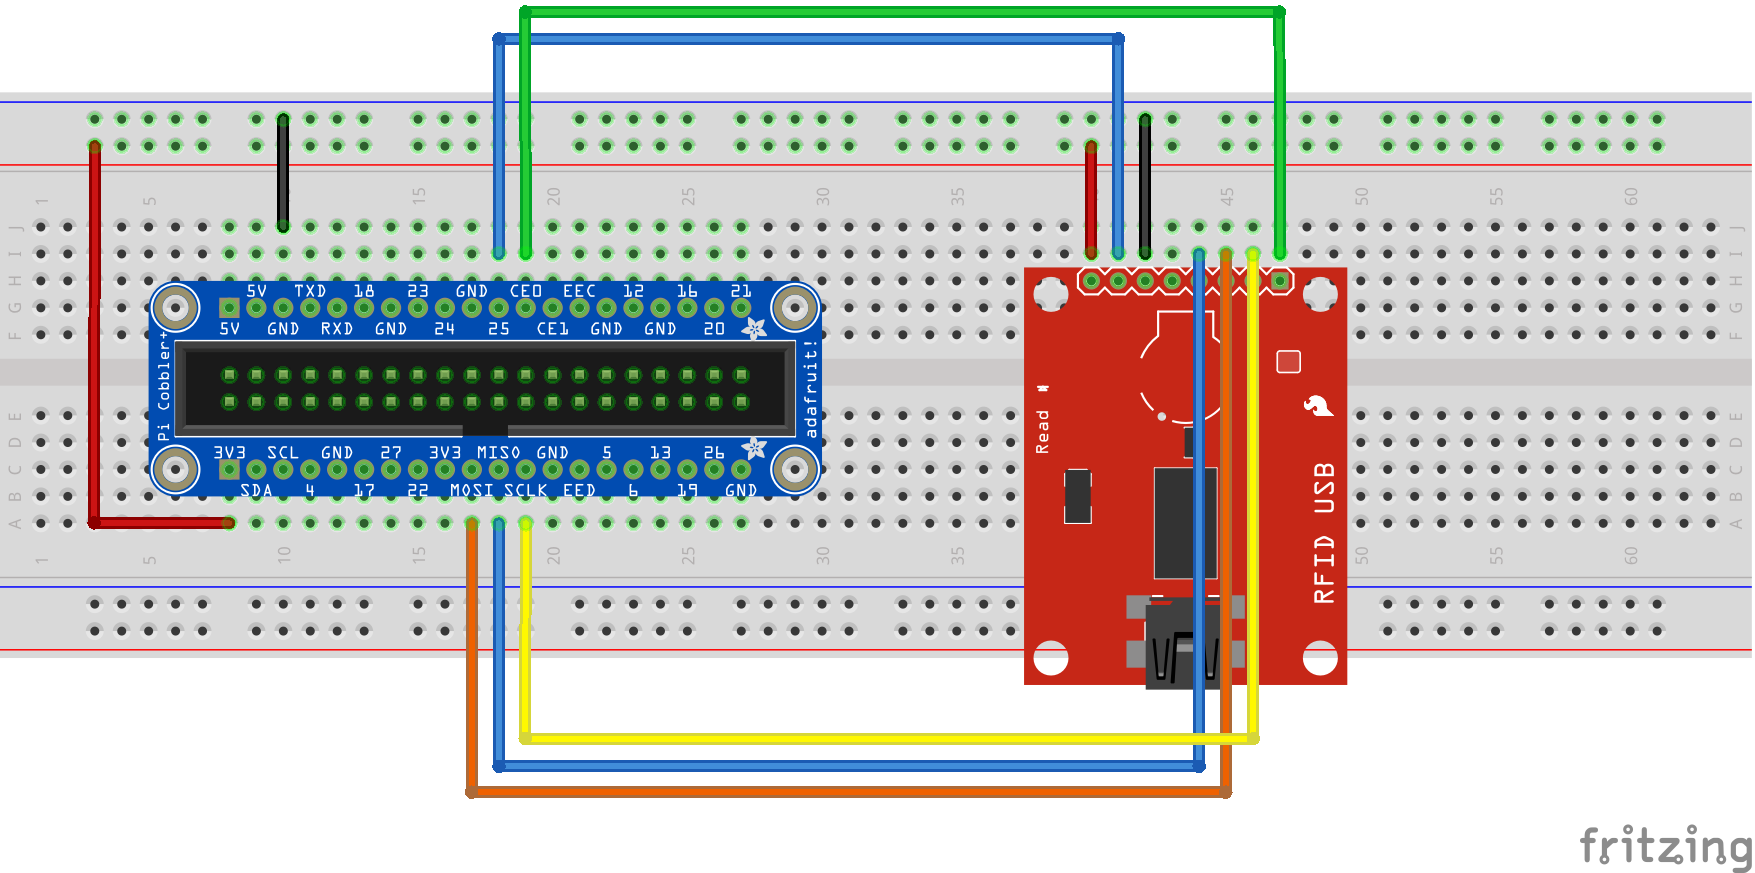
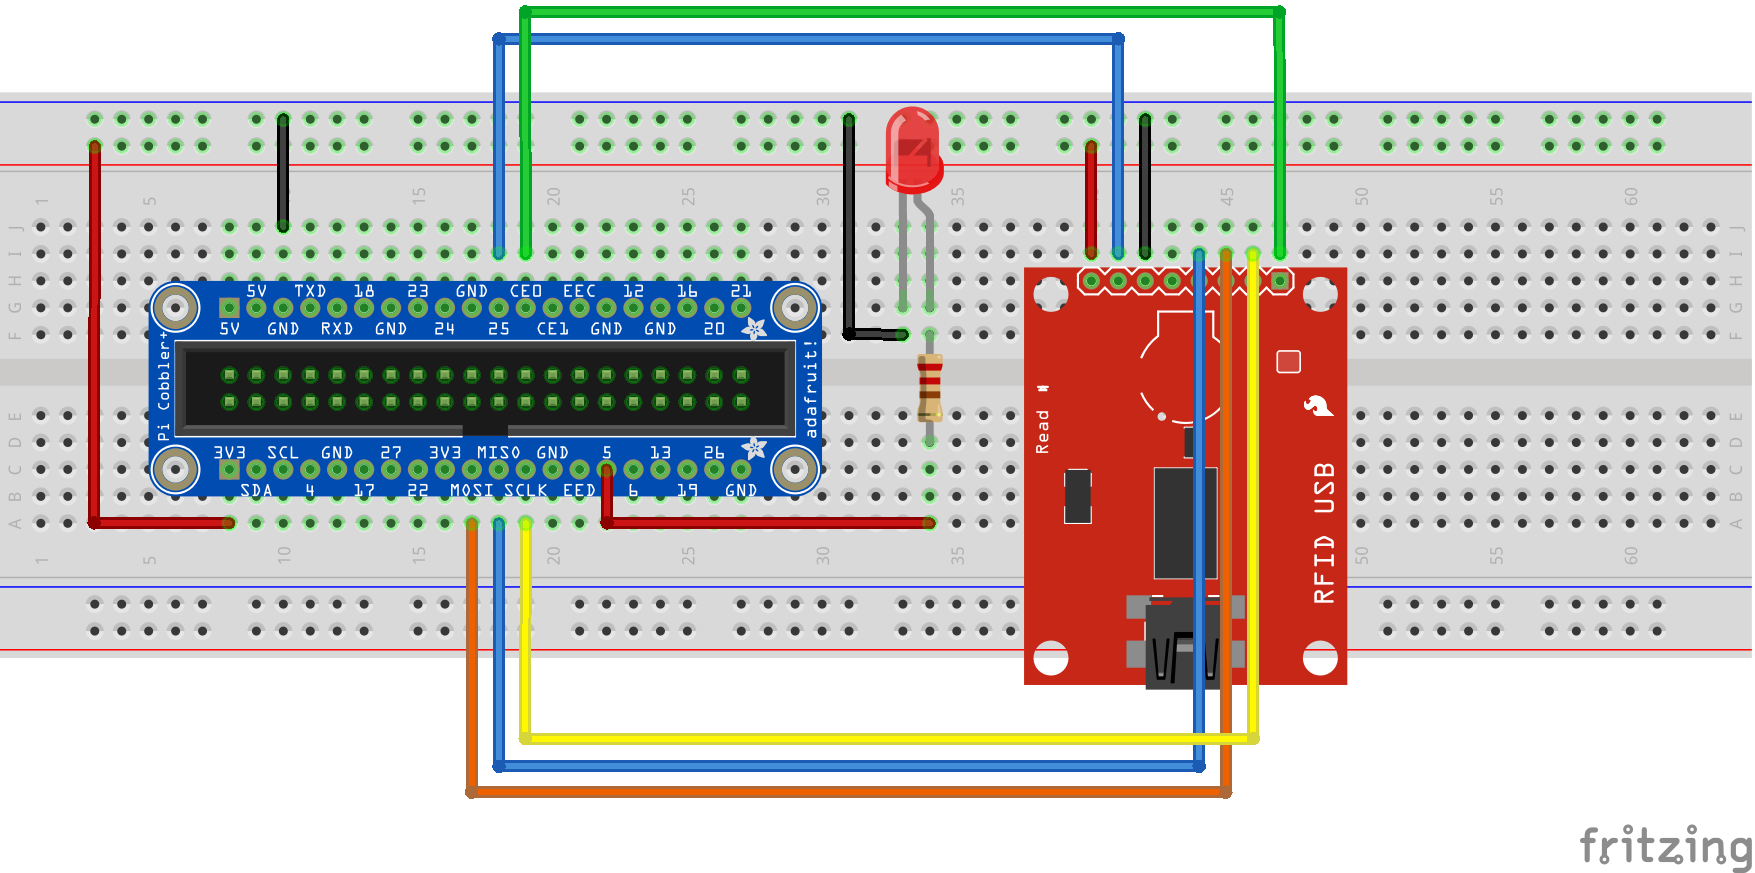
Added indication LED

Changed region(s): [[0.3385, 0.1237, 0.5538, 0.6186]]

diff --git a/Management System and Inventory/source/RFIDReader/StartupTask.cs b/Management System and Inventory/source/RFIDReader/StartupTask.cs
@@ -1,54 +1,76 @@
-using System;
-using System.Collections.Generic;
-using System.Linq;
-using System.Text;
-using System.Net.Http;
-using Windows.ApplicationModel.Background;
-
-using RFIDReader.Mfrc522Lib;
+using RFIDReader.Mfrc522Lib;
+using System;
 using System.Diagnostics;
-using Newtonsoft.Json;
-using Microsoft.Azure.Devices.Client;
-
+using Windows.ApplicationModel.Background;
+using Windows.Devices.Gpio;
 
 // The Background Application template is documented at http://go.microsoft.com/fwlink/?LinkID=533884&clcid=0x409
 
 namespace RFIDReader
 {
     public sealed class StartupTask : IBackgroundTask
-    {
+    {   
+        Mfrc522 mfrc;
+        static GpioPin pin;
+        const int LED_PIN = 5;
+
         public async void Run(IBackgroundTaskInstance taskInstance)
         {
-            BackgroundTaskDeferral deferral = taskInstance.GetDeferral();
+            Debug.WriteLine("Running....");
+            InitGPIO();
+            pin.Write(GpioPinValue.High);
 
-            Mfrc522 mfrc = new Mfrc522();
+            BackgroundTaskDeferral deferral = taskInstance.GetDeferral();
+          
+            mfrc = new Mfrc522();
             await mfrc.InitIO();
 
-            #region loop
+            // Main loop
             while (true)
-            {
-                
-
-                //verify if the tag is present
+            {          
+                //true when an RFiD tag is detected
                 if (mfrc.IsTagPresent())
                 {
+                    pin.Write(GpioPinValue.Low);
                     Debug.WriteLine("IsTagPresent() == True.");
-                    //read the UUID and show in UI
-                    var uid = mfrc.ReadUid();
+                    //read the UUID from the card
+                    Uid uid = mfrc.ReadUid();
                     Debug.WriteLine("Tag value == " + uid.ToString());
                     //rfid controller halt state
                     //mfrc.HaltTag();
-                    //Sent message
+
+                    //Send message to IoT Hub
                     await AzureIoTHub.SendDeviceToCloudMessageAsync(uid.ToString());
+                    pin.Write(GpioPinValue.High);
                 }
                                    
             //sleep
             await System.Threading.Tasks.Task.Delay(TimeSpan.FromSeconds(1));
 
             }
-            #endregion
-
             //deferral.Complete();
         }
+
+        private void InitGPIO()
+        {
+            GpioController gpio = GpioController.GetDefault();
+
+            if (gpio == null)
+            {
+                pin = null;
+                return;
+            }
+
+            pin = gpio.OpenPin(LED_PIN);
+
+            if (pin == null)
+            {
+                return;
+            }
+
+            pin.Write(GpioPinValue.High);
+            pin.SetDriveMode(GpioPinDriveMode.Output);
+        }
+
     }
 }

diff --git a/Management System and Inventory/source/RFIDReader/AzureIoTHub.cs b/Management System and Inventory/source/RFIDReader/AzureIoTHub.cs
@@ -4,21 +4,11 @@ using System.Threading.Tasks;
 using Microsoft.Azure.Devices.Client;
 using Newtonsoft.Json;
 using System.Diagnostics;
+using Windows.Devices.Gpio;
 
 static class AzureIoTHub
 {
-    //
-    // Note: this connection string is specific to the device "device1". To configure other devices,
-    // see information on iothub-explorer at http://aka.ms/iothubgetstartedVSCS
-    //
     const string deviceConnectionString = "HostName=devhubb99.azure-devices.net;DeviceId=device1;SharedAccessKey=UShGPPPi5Td1vCzYGEvE0/ZiYUDlb2YwsmHOEG91pIs=";
-
-    //
-    // To monitor messages sent to device "device1" use iothub-explorer as follows:
-    //    iothub-explorer HostName=devhubb99.azure-devices.net;SharedAccessKeyName=service;SharedAccessKey=uZKiXmf46ZD79Jr/Vv1qCX4o+nkceLFnKr/L84uxN+Y= monitor-events "device1"
-    //
-
-    // Refer to http://aka.ms/azure-iot-hub-vs-cs-wiki for more information on Connected Service for Azure IoT Hub
 
     public static async Task SendDeviceToCloudMessageAsync(string uid)
     {
@@ -32,10 +22,10 @@ static class AzureIoTHub
             Location = "StoreLocation123"
         };
 
-        var messageString = JsonConvert.SerializeObject(telemetryDataPoint);
-        var message = new Message(Encoding.ASCII.GetBytes(messageString));
+        string messageString = JsonConvert.SerializeObject(telemetryDataPoint);
+        Message message = new Message(Encoding.ASCII.GetBytes(messageString));
 
-        Debug.WriteLine("{0} > Sending message: {1}", DateTime.Now, messageString);
+        Debug.WriteLine("{0} > Sending message: {1}", telemetryDataPoint.Time.ToString(), messageString);
         await deviceClient.SendEventAsync(message);
         Debug.WriteLine("Done.");
 
@@ -60,4 +50,6 @@ static class AzureIoTHub
             await Task.Delay(TimeSpan.FromSeconds(1));
         }
     }
+
+    
 }
